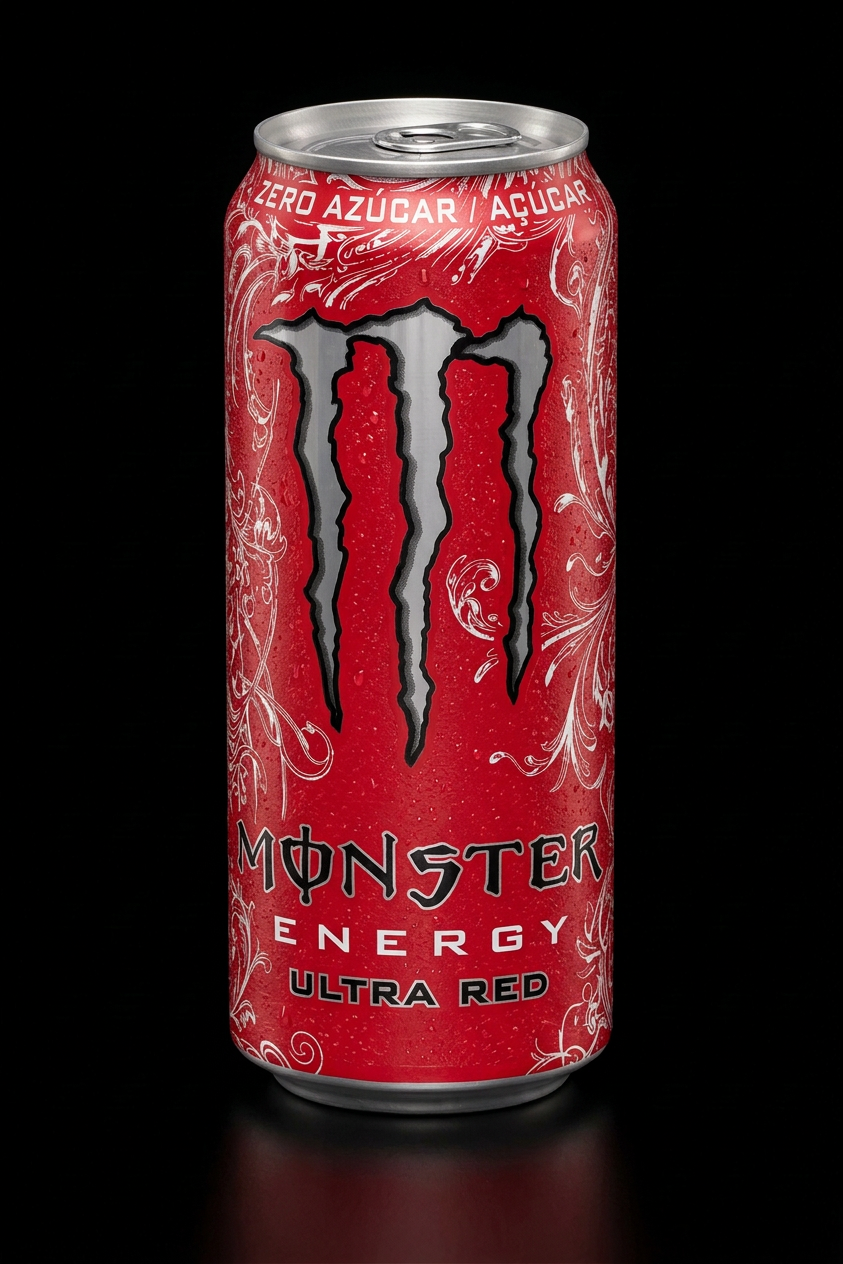
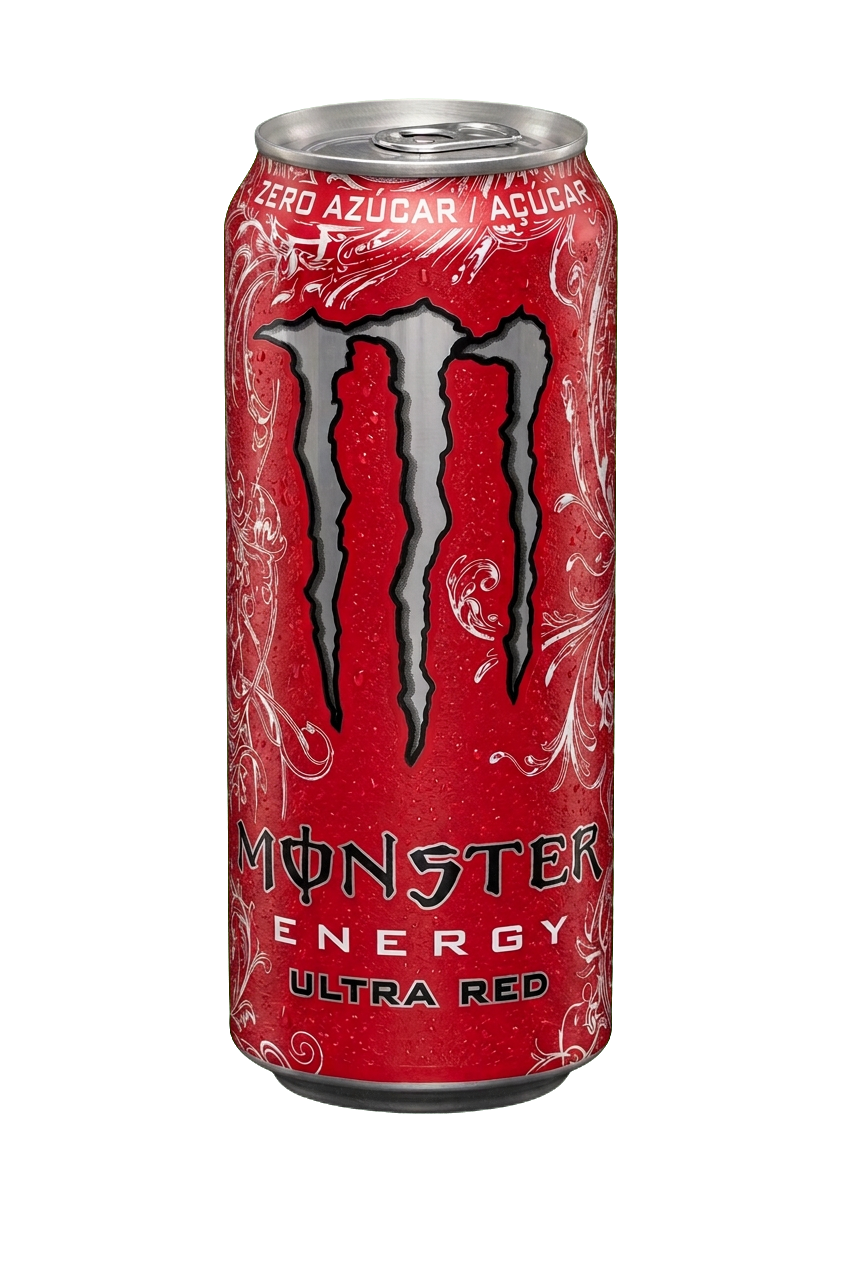
Fond+lueur par defaut CSS sur tous les blocs; 5 canettes detourees transparentes (chroma key); reflet CSS

diff --git a/public/js/app.js b/public/js/app.js
@@ -296,6 +296,7 @@ function drawPieChart(data, cid) {
 // ════════════════════════════════════════════════════════
 //  CARTE CANETTE
 // ════════════════════════════════════════════════════════
+const MT_BAKED = /monster-(apex|original|original-blackops7|ultra-blackops7)\.png/;
 function accentBg(color) {
   color = color || getComputedStyle(document.documentElement).getPropertyValue('--g').trim() || '#39ff14';
   var m = /^#?([a-f\d]{2})([a-f\d]{2})([a-f\d]{2})$/i.exec(color);
@@ -314,7 +315,7 @@ function canCardHtml(can, btnsHtml) {
   var sub = [can.series, can.variant, can.country, can.year].filter(Boolean).map(escapeHtml).join(' · ') || '—';
   var cardBorder = can.is_limited ? 'border:2px solid #ff9600;border-bottom:3px solid #ff9600;' : 'border-bottom:3px solid ' + accent + ';';
   return '<div class="ccard" style="' + cardBorder + '">'
-    + '<div class="cthumb" style="background:' + (can.image_url ? '#000' : accentBg(accent)) + (can.image_url ? ';padding:0;' : '') + '">' + img + lim + owned + '</div>'
+    + '<div class="cthumb' + (can.image_url ? ' has-img' + (MT_BAKED.test(can.image_url) ? ' baked' : '') : '') + '" style="' + (can.image_url ? '' : 'background:' + accentBg(accent)) + '">' + img + lim + owned + '</div>'
     + '<div class="cbody">'
     + '<div class="cname">' + escapeHtml(can.name) + '</div>'
     + '<div class="csub">' + sub + '</div>'
@@ -457,8 +458,9 @@ function openCanDetail(can) {
   document.getElementById('cd-series').textContent = [can.series, can.variant].filter(Boolean).join(' · ') || '';
   document.getElementById('cd-limited').style.display = can.is_limited ? 'block' : 'none';
   var imgWrap = document.getElementById('cd-img-wrap');
+  imgWrap.style.backgroundImage = can.image_url ? 'radial-gradient(ellipse 60% 18% at 50% 87%,rgba(255,255,255,.16),rgba(255,255,255,.05) 55%,transparent 78%)' : '';
   imgWrap.innerHTML = can.image_url
-    ? '<img src="' + escapeHtml(can.image_url) + '" alt="" style="width:160px;height:180px;object-fit:contain;background:' + accentBg(can.accent_color) + '" onerror="this.parentElement.innerHTML=\'&#129371;\'">'
+    ? '<img src="' + escapeHtml(can.image_url) + '" alt="" class="' + (MT_BAKED.test(can.image_url) ? '' : 'cut-refl') + '" style="width:160px;height:180px;object-fit:contain;background:transparent;" onerror="this.parentElement.innerHTML=\'&#129371;\'">'
     : "<span style='font-size:60px;'>&#129371;</span>";
   var meta = document.getElementById('cd-meta');
   var fields = [

diff --git a/docs/js/app.js b/docs/js/app.js
@@ -325,6 +325,7 @@ function drawPieChart(data, cid) {
 }
 
 // ── Carte canette ──
+const MT_BAKED = /monster-(apex|original|original-blackops7|ultra-blackops7)\.png/;
 function accentBg(color) {
   color = color || getComputedStyle(document.documentElement).getPropertyValue('--g').trim() || '#39ff14';
   const m = /^#?([a-f\d]{2})([a-f\d]{2})([a-f\d]{2})$/i.exec(color);
@@ -341,7 +342,7 @@ function canCardHtml(can, btnsHtml) {
   const sub = [can.series, can.variant, can.country, can.year].filter(Boolean).map(escapeHtml).join(' · ') || '—';
   const cardBorder = can.is_limited ? 'border:2px solid #ff9600;border-bottom:3px solid #ff9600;' : 'border-bottom:3px solid ' + accent + ';';
   return '<div class="ccard" style="' + cardBorder + '">'
-    + '<div class="cthumb" style="background:' + (can.image_url ? '#000' : accentBg(accent)) + (can.image_url ? ';padding:0;' : '') + '">' + img + lim + owned + '</div>'
+    + '<div class="cthumb' + (can.image_url ? ' has-img' + (MT_BAKED.test(can.image_url) ? ' baked' : '') : '') + '" style="' + (can.image_url ? '' : 'background:' + accentBg(accent)) + '">' + img + lim + owned + '</div>'
     + '<div class="cbody"><div class="cname">' + escapeHtml(can.name) + '</div><div class="csub">' + sub + '</div>' + price
     + (btnsHtml ? '<div class="cbtns">' + btnsHtml + '</div>' : '')
     + '</div></div>';
@@ -493,8 +494,9 @@ function openCanDetail(can) {
   document.getElementById('cd-series').textContent = [can.series, can.variant].filter(Boolean).join(' · ') || '';
   document.getElementById('cd-limited').style.display = can.is_limited ? 'block' : 'none';
   const imgWrap = document.getElementById('cd-img-wrap');
+  imgWrap.style.backgroundImage = can.image_url ? 'radial-gradient(ellipse 60% 18% at 50% 87%,rgba(255,255,255,.16),rgba(255,255,255,.05) 55%,transparent 78%)' : '';
   imgWrap.innerHTML = can.image_url
-    ? '<img src="' + escapeHtml(can.image_url) + '" alt="" style="width:160px;height:180px;object-fit:contain;background:' + accentBg(can.accent_color) + '" onerror="this.parentElement.innerHTML=\'&#129371;\'">'
+    ? '<img src="' + escapeHtml(can.image_url) + '" alt="" class="' + (MT_BAKED.test(can.image_url) ? '' : 'cut-refl') + '" style="width:160px;height:180px;object-fit:contain;background:transparent;" onerror="this.parentElement.innerHTML=\'&#129371;\'">'
     : "<span style='font-size:60px;'>&#129371;</span>";
   const fields = [{ label: 'Pays', val: can.country }, { label: 'Année', val: can.year }, { label: 'Volume', val: can.volume }, { label: 'Langue', val: can.language }, { label: 'Couleur capsule', val: can.cap_color }, { label: 'Couleur dominante', val: can.full_color }];
   let mh = '';

diff --git a/docs/css/style.css b/docs/css/style.css
@@ -144,6 +144,10 @@ body{background:var(--bk);color:var(--tx);font-family:'Barlow',sans-serif;min-he
 .ccard{background:#0d0d0d;border:1px solid var(--br);overflow:hidden;transition:all .25s;position:relative;cursor:pointer;display:flex;flex-direction:column;min-height:260px;height:100%;}
 .ccard:hover{transform:translateY(-3px);box-shadow:0 12px 32px rgba(0,0,0,.7);}
 .cthumb{aspect-ratio:2/3;height:auto;flex-shrink:0;display:flex;align-items:center;justify-content:center;font-size:52px;position:relative;overflow:hidden;padding:0;}
+.cthumb.has-img{background:radial-gradient(ellipse 60% 20% at 50% 87%,rgba(255,255,255,.16),rgba(255,255,255,.05) 55%,transparent 78%) #000;}
+.cthumb.has-img:not(.baked) img{height:88%;object-fit:contain;object-position:50% 0;-webkit-box-reflect:below 0 linear-gradient(transparent 55%,rgba(0,0,0,.3));}
+.cut-refl{-webkit-box-reflect:below 0 linear-gradient(transparent 60%,rgba(0,0,0,.3));}
+
 .cthumb img{width:100%;height:100%;object-fit:cover;transition:transform .3s;}
 .ccard:hover .cthumb img{transform:scale(1.06);}
 .badge{display:inline-flex;align-items:center;justify-content:center;background:var(--rd);color:#fff;font-family:'Barlow Condensed',sans-serif;font-size:10px;font-weight:900;min-width:16px;height:16px;border-radius:8px;padding:0 4px;margin-left:5px;vertical-align:middle;line-height:1;}

diff --git a/public/css/style.css b/public/css/style.css
@@ -145,6 +145,10 @@ body{background:var(--bk);color:var(--tx);font-family:'Barlow',sans-serif;min-he
 .ccard{background:#0d0d0d;border:1px solid var(--br);overflow:hidden;transition:all .25s;position:relative;cursor:pointer;display:flex;flex-direction:column;min-height:260px;height:100%;}
 .ccard:hover{transform:translateY(-3px);box-shadow:0 12px 32px rgba(0,0,0,.7);}
 .cthumb{aspect-ratio:2/3;height:auto;flex-shrink:0;display:flex;align-items:center;justify-content:center;font-size:52px;position:relative;overflow:hidden;padding:0;}
+.cthumb.has-img{background:radial-gradient(ellipse 60% 20% at 50% 87%,rgba(255,255,255,.16),rgba(255,255,255,.05) 55%,transparent 78%) #000;}
+.cthumb.has-img:not(.baked) img{height:88%;object-fit:contain;object-position:50% 0;-webkit-box-reflect:below 0 linear-gradient(transparent 55%,rgba(0,0,0,.3));}
+.cut-refl{-webkit-box-reflect:below 0 linear-gradient(transparent 60%,rgba(0,0,0,.3));}
+
 .cthumb img{width:100%;height:100%;object-fit:cover;transition:transform .3s;}
 .ccard:hover .cthumb img{transform:scale(1.06);}
 .badge{display:inline-flex;align-items:center;justify-content:center;background:var(--rd);color:#fff;font-family:'Barlow Condensed',sans-serif;font-size:10px;font-weight:900;min-width:16px;height:16px;border-radius:8px;padding:0 4px;margin-left:5px;vertical-align:middle;line-height:1;}

diff --git a/docs/sw.js b/docs/sw.js
@@ -1,6 +1,6 @@
 // MonsterTracker statique — Service Worker
 // Cache d'abord (network-first en ligne, cache en secours) → fonctionne hors-ligne une fois visité.
-const CACHE = 'mt-v19';
+const CACHE = 'mt-v20';
 const SHELL = ['./', './index.html', './support.html', './css/style.css', './js/app.js', './js/support.js', './js/qrcode.min.js', './icon.png', './manifest.json'];
 
 self.addEventListener('install', (e) => {

diff --git a/public/sw.js b/public/sw.js
@@ -1,7 +1,7 @@
 // MonsterTracker — Service Worker
 // Stratégie : network-first pour l'app shell, cache en secours (mode hors-ligne basique).
 // Les appels API ne sont jamais mis en cache.
-const CACHE = 'mt-v9';
+const CACHE = 'mt-v10';
 const SHELL = ['/', '/index.html', '/css/style.css', '/js/app.js', '/icon.png', '/manifest.json'];
 
 self.addEventListener('install', (e) => {
